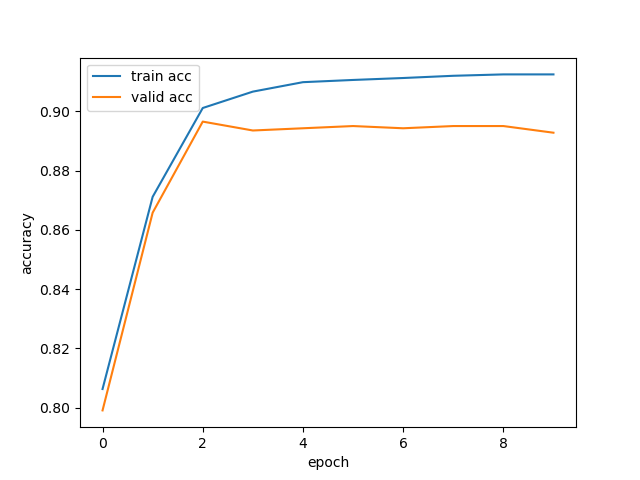
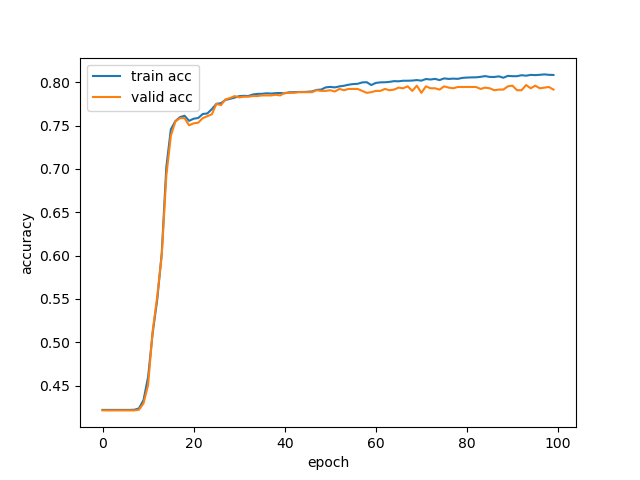
modify

diff --git a/taisei/chapter08/knock79.py b/taisei/chapter08/knock79.py
@@ -51,11 +51,11 @@ for batch in [128]:
     accs_train = []
     accs_valid = []
     times = []
-    for i in tqdm(range(10)):
+    for i in tqdm(range(100)):
         train_dataloader = torch.utils.data.DataLoader(train_data, batch_size=batch, shuffle=True)
         start = time.time()
         sum_loss_train = 0
-        for batch_x, batch_y in train_data:
+        for batch_x, batch_y in train_dataloader:
             Y_pred_train = net(batch_x)
             loss_train = loss_f(Y_pred_train, batch_y)
             optimizer.zero_grad() #パラメータの勾配をリセット
@@ -63,7 +63,7 @@ for batch in [128]:
             optimizer.step() #各パラメータの勾配を使用してパラメータの値を調整
             sum_loss_train += loss_train.detach().numpy()
 
-        losses_train.append(sum_loss_train/len(train_data))
+        losses_train.append(sum_loss_train/len(train_dataloader))
 
         Y_pred_valid = net(X_valid_tenso)
         loss_valid = loss_f(Y_pred_valid, Y_valid_tenso)

diff --git a/taisei/chapter08/knock77.py b/taisei/chapter08/knock77.py
@@ -42,11 +42,11 @@ for batch in [2 ** i for i in range(6, 11)]:
     accs_train = []
     accs_valid = []
     times = []
-    for i in tqdm(range(10)):
+    for i in tqdm(range(100)):
         train_dataloader = torch.utils.data.DataLoader(train_data, batch_size=batch, shuffle=True)
         start = time.time()
         sum_loss_train = 0
-        for batch_x, batch_y in train_data:
+        for batch_x, batch_y in train_dataloader:
             Y_pred_train = net(batch_x)
             loss_train = loss_f(Y_pred_train, batch_y)
             optimizer.zero_grad() #パラメータの勾配をリセット

diff --git a/taisei/chapter08/knock78.py b/taisei/chapter08/knock78.py
@@ -51,7 +51,7 @@ for batch in [2 ** i for i in range(5)]:
         train_dataloader = torch.utils.data.DataLoader(train_data, batch_size=batch, shuffle=True)
         start = time.time()
         sum_loss_train = 0
-        for batch_x, batch_y in train_data:
+        for batch_x, batch_y in train_dataloader:
             Y_pred_train = net(batch_x)
             loss_train = loss_f(Y_pred_train, batch_y)
             optimizer.zero_grad() #パラメータの勾配をリセット
